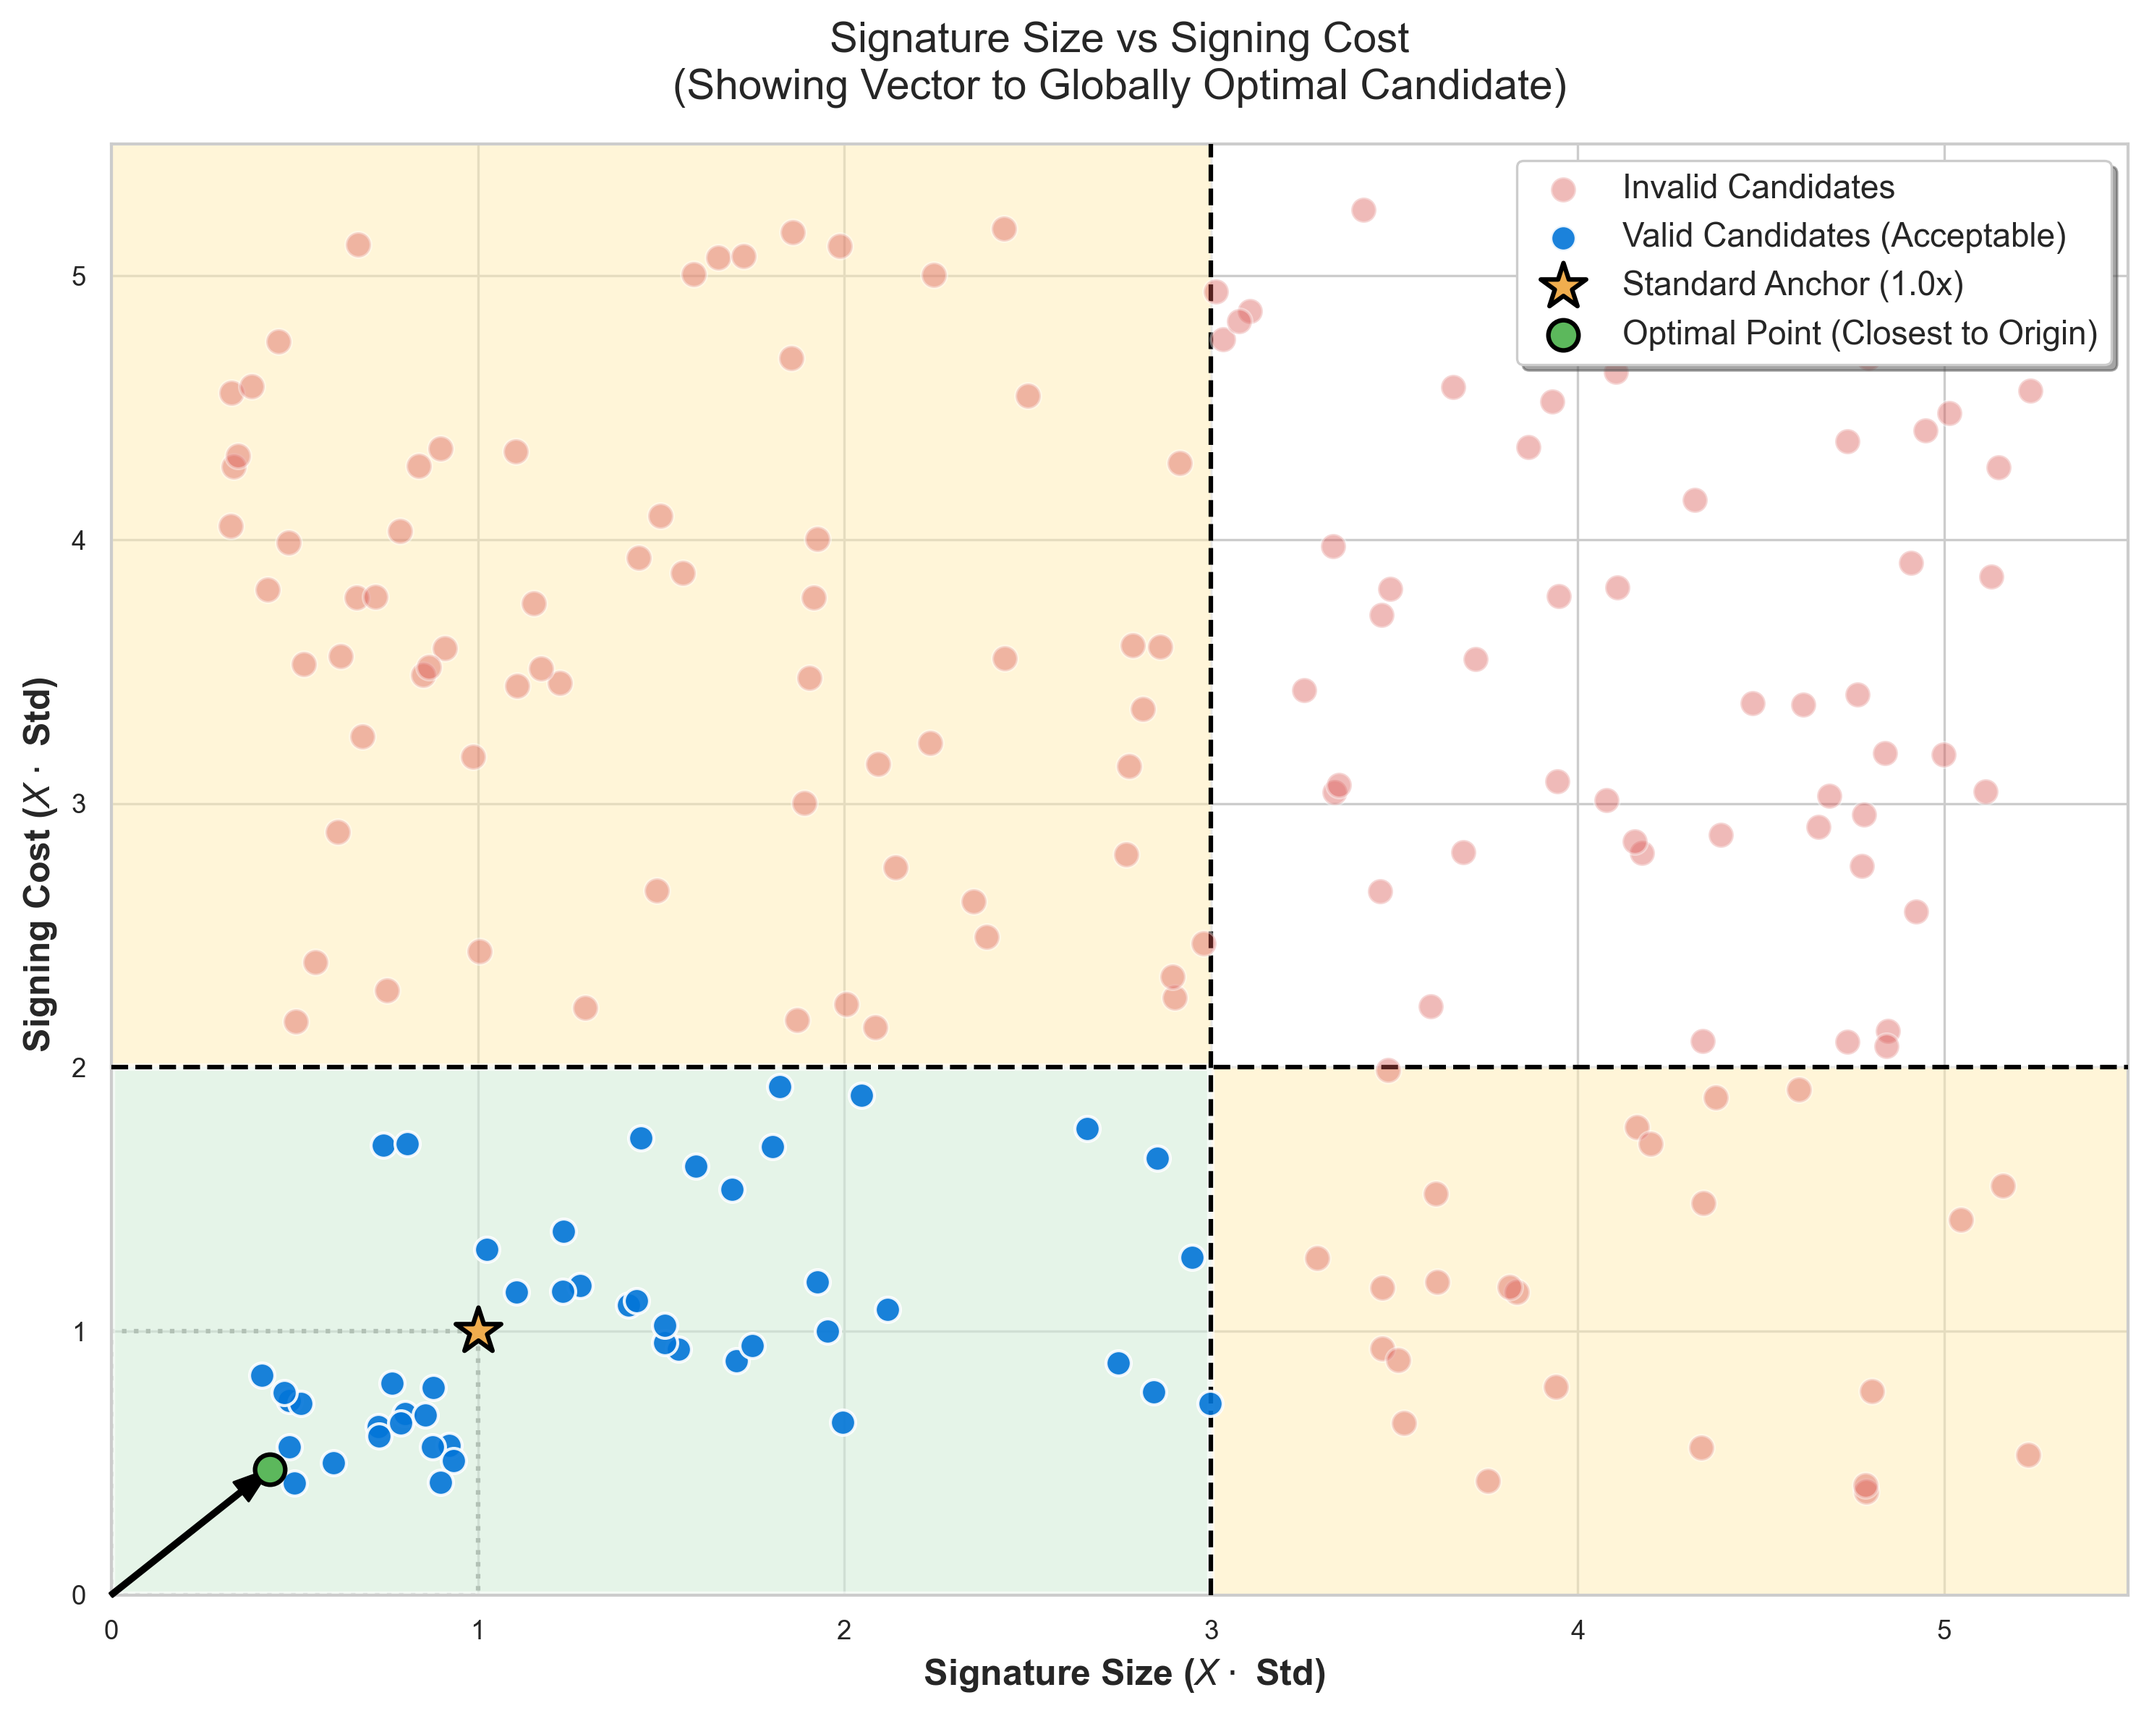
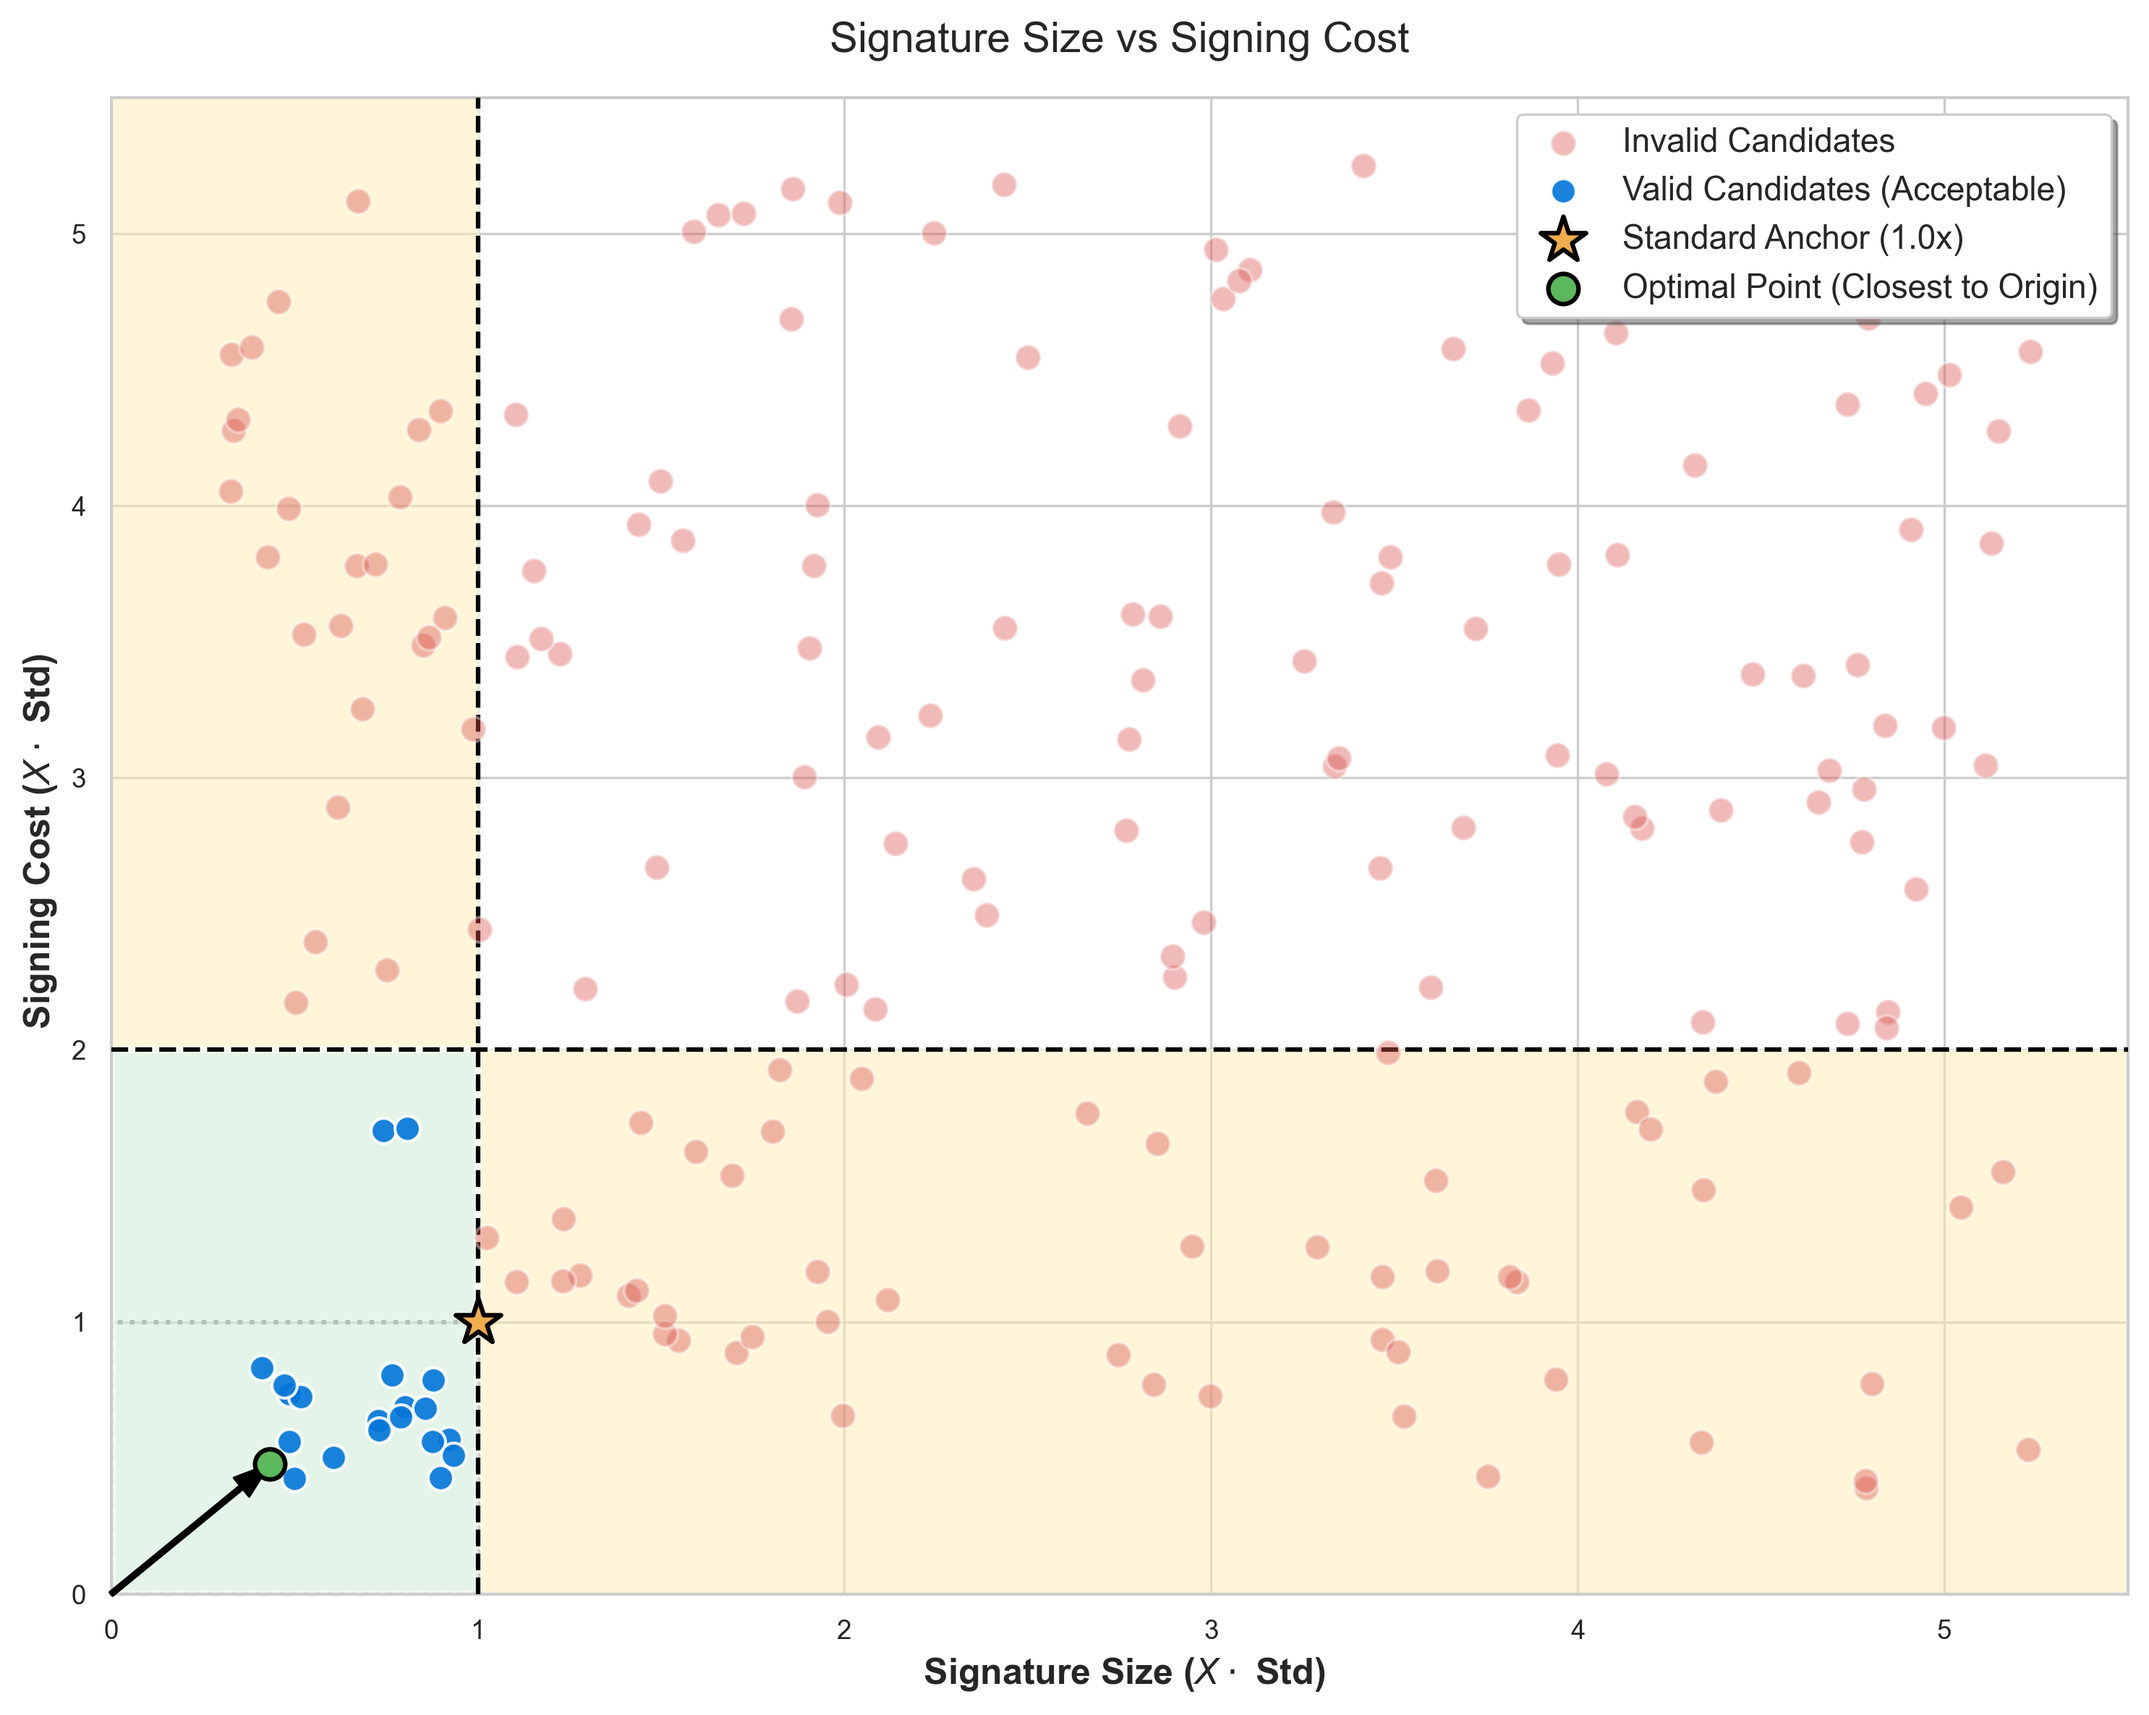
update search methology section

diff --git a/document/content/3-search.tex b/document/content/3-search.tex
@@ -29,9 +29,9 @@ Let's introduce the following filters to defined metrics:
 \begin{itemize}
     \item Bound on signature size (input: \text{max\_size}): $\text{size} \leq \text{max\_size}$;
     \item Bound on key generation cost (input: $X$): $\text{cost}_{\text{kg\_custom}} \leq X \cdot \text{cost}_{\text{kg\_std}}$;
-    \item Bound on signing cost (input: $X$): $\text{cost}_{\text{sig\_custom}} \leq X \cdot \text{cost}_{\text{sig\_std}}$;
-    \item Bound on verification cost (input: $X$): $\text{cost}_{\text{ver\_custom}} \leq X \cdot \text{cost}_{\text{ver\_std}}$;
-    \item Bound on compression per byte (input: $X$): $ \text{cost}_{\text{ver\_custom}}/\text{size} \leq X $
+    \item Bound on signature generation cost (input: $X$): $\text{cost}_{\text{sg\_custom}} \leq X \cdot \text{cost}_{\text{sg\_std}}$;
+    \item Bound on signature verification cost (input: $X$): $\text{cost}_{\text{sv\_custom}} \leq X \cdot \text{cost}_{\text{sv\_std}}$;
+    \item Bound on compression per byte (input: $X$): $ \text{cost}_{\text{cb\_custom}}/\text{size} \leq X $
 \end{itemize}
 
 where $X$ is arbitrary positive real number, and \text{max\_size} is the positive integer value.
@@ -67,7 +67,7 @@ Best Density Ratio (\texorpdfstring{$\rho$}{rho}) & $(50, 2, 23, 15, 16)$ & $784
 From Table~\ref{tab:minimal_metric_each}, we can see that the results for each metric is minimized as possible, 
 but with the cost of other metrics being too big, which makes this parameters impractical to use. Let's consider strategy to find the suitable parameters.
 
-\paragraph{Balanced Metrics} If we ask a question, how the size set of parameters change, if we use common value $X$ across all 4 metrics related to it? 
+\paragraph{Balanced Metrics} If we ask a question, how the size set of parameters change, if we use common value $X$ across all 5 metrics (setting $\text{max\_size} = X \cdot \text{size\_std}$ for $X \leq 1$)? 
 How the number of candidates changes depending on choice of filter input? What is the smallest $X$ that we can set to obtain a few candidates? 
 We apply the result for different values of $X$, and obtain the following results:
 
@@ -80,23 +80,23 @@ We apply the result for different values of $X$, and obtain the following result
 
 The bigger the multiplier, the bigger numer of candidates we get through the search process. 
 And the oppossite is also true, with smaller $X$, the number of candidates becomes smaller. 
-The smallest value of multiplier is $X \approx 0.8299$, and the results presented in the table~\ref{tab:optimal_candidate_metrics}
+The smallest value of multiplier is $X \approx 0.8840$, and the results presented in the Table~\ref{tab:optimal_candidate_metrics}
 
 \begin{table}[htbp]
     \centering
     \small
-    \caption{Performance Comparison between the Standard Baseline and the Balanced Candidate ($X = 0.8299$)}
+    \caption{Performance Comparison between the Standard Baseline and the Balanced Candidate ($X = 0.8840$)}
     \label{tab:optimal_candidate_metrics}
     \begin{tabular}{lrrr}
         \toprule
-        \textbf{Metric} & \textbf{STANDARD Baseline} & \textbf{Optimal Candidate} & \textbf{Relative Multiplier ($X$)} \\
+        \textbf{Metric} & \textbf{Standard Baseline} & \textbf{Optimal Candidate} & \textbf{Relative Multiplier ($X$)} \\
         \midrule
-        Parameters $(h, d, k, a, w)$ & $(63, 7, 14, 12, 16)$ & $(40, 5, 21, 12, 16)$ & -- \\
-        Signature Size (Bytes) & $7,872$ & $7,840$ & $0.9959\times$ \\
-        Key Generation Cost & $292,862.0$ & $146,431.0$ & $0.5000\times$ \\
-        Signing Cost & $2,279,391.0$ & $1,076,100.49$ & $0.4721\times$ \\
-        Verification Cost & $2,387.0$ & $1,973.09$ & $0.8266\times$ \\
-        Hash Density Ratio ($\rho$) & $0.303227$ & $0.251648$ & $0.8299\times$ \\
+        Parameters $(h, d, k, a, w)$ & $(63, 7, 14, 12, 16)$ & $(40, 5, 24, 8, 16)$ & -- \\
+        Signature Size (Bytes) & $7,872$ & $6,928$ & $0.8801\times$ \\
+        Key Generation Cost & $292,862.0$ & $146,430.0$ & $0.5000\times$ \\
+        Signing Cost & $2,279,391.0$ & $756,689.0$ & $0.3320\times$ \\
+        Verification Cost & $2,387.0$ & $1,857.0$ & $0.7780\times$ \\
+        Compression per Byte ($\rho$) & $0.303227$ & $0.268043$ & $0.8840\times$ \\
         \bottomrule
     \end{tabular}
 \end{table}
@@ -120,14 +120,165 @@ Let's see the the visualized example below, where we chose signature size and si
     \label{fig:scatter_plot}
 \end{figure}
 
+While this interpretation of the parameters search fulfills its purpose to demonstrate how actually we find the candidates, this method needs more plots to know the exact values.
+We can do better! 
+
+In the new strategy, we plot unbounded parameters set (with only condition to have 128 bits security) on the plane randomly (the position doesn't matter). 
+After initializing candidates, apply the signature size filter, visualized as color filtering card. Moving further apply all other filter unil the last one.
+The resulting set is the set with appropriate candidates where we can search for the best. 
+
+Let's consider an example, where we set the following coefficients in the filters: 
+$$X_{\text{size}} = 0.85, X_{\text{kg}} = 1.5, X_{\text{sg}} = 2, X_{\text{sv}} = 0.8, X_{\text{cb}} = 1.$$
+
+The result of search for candidates with filtering shown below (see the Figure~\ref{fig:full_filtering_process}):
+
+\begin{figure}[htbp]
+    \centering
+    % Row 1
+    \begin{subfigure}[b]{0.32\textwidth}
+        \centering
+        \includegraphics[width=\textwidth]{content/images/sieve_step1_initial.png}
+        \caption{Initial Pool}
+        \label{fig:sieve_1}
+    \end{subfigure}
+    \hfill
+    \begin{subfigure}[b]{0.32\textwidth}
+        \centering
+        \includegraphics[width=\textwidth]{content/images/sieve_step2_size.png}
+        \caption{SigSize}
+        \label{fig:sieve_2}
+    \end{subfigure}
+    \hfill
+    \begin{subfigure}[b]{0.32\textwidth}
+        \centering
+        \includegraphics[width=\textwidth]{content/images/sieve_step3_keygen.png}
+        \caption{KeyGen}
+        \label{fig:sieve_3}
+    \end{subfigure}
+    
+    \vspace{0.5cm}
+    
+    % Row 2
+    \begin{subfigure}[b]{0.32\textwidth}
+        \centering
+        \includegraphics[width=\textwidth]{content/images/sieve_step4_siggen.png}
+        \caption{SigGen}
+        \label{fig:sieve_4}
+    \end{subfigure}
+    \hfill
+    \begin{subfigure}[b]{0.32\textwidth}
+        \centering
+        \includegraphics[width=\textwidth]{content/images/sieve_step5_verify.png}
+        \caption{SigVerify}
+        \label{fig:sieve_5}
+    \end{subfigure}
+    \hfill
+    \begin{subfigure}[b]{0.32\textwidth}
+        \centering
+        \includegraphics[width=\textwidth]{content/images/sieve_step6_rho.png}
+        \caption{Comp/Byte}
+        \label{fig:sieve_6}
+    \end{subfigure}
+    
+    \caption{Full Parameter Filtering Process}
+    \label{fig:full_filtering_process}
+\end{figure}
+
+Starting with the total number of candidates equal to 19437. After applying signature size filter, succesfully reduce the number of candidates up to 6202.
+In the next step, we reduce the candidates in more than 7 times. 
+Filtering further, we left with smaller and smaller number of suitable candidates, resulting only in final 60 candidates to check further. 
+
+Obtaining the set of final candidates, we are ready to search for the best among them. 
+For this part we use weighted euclidean distance. 
+The reason behind choosing such metric lies in the ability to sign the priority of metrics.
+Let's define the raw weight coefficients as $w_{\text{size}}, w_{\text{kg}}, w_{\text{sg}}, w_{\text{sv}}$, and $w_{\text{cb}}$, representing the relative priority of signature size, key generation, signing, verification, and compression per byte, respectively. All coefficients are real positive numbers ($w \in \mathbb{R}^+$). 
+
+To ensure the calculation remains proportionally consistent regardless of the scale of the chosen weights, we normalize them into coefficients $p_i$ (where $i \in \{\text{size}, \text{kg}, \text{sg}, \text{sv}, \text{cb}\}$) such that their total sum equals $1$:
+\begin{equation}
+    p_i = \frac{w_i}{w_{\text{size}} + w_{\text{kg}} + w_{\text{sg}} + w_{\text{sv}} + w_{\text{cb}}}, \quad \text{ensuring} \quad \sum p_i = 1
+    \label{eq:weight_normalization}
+\end{equation}
+
+Using these normalized coefficients, we calculate the Weighted Euclidean Distance (the $L_2$ norm) from the origin $(0,0,0,0,0)$ to the candidate's point $P$. The distance $d(P)$ is defined as:
+\begin{equation}
+    d(P) = \sqrt{p_{\text{size}} X_{\text{size}}^2 + p_{\text{kg}} X_{\text{kg}}^2 + p_{\text{sg}} X_{\text{sg}}^2 + p_{\text{sv}} X_{\text{sv}}^2 + p_{\text{cb}} X_{\text{cb}}^2}
+    \label{eq:weighted_euclidean_distance}
+\end{equation}
+
+Note that we don't use raw metric values, but instead a ratio of raw metric to the standard. 
+
+To visualize the distances we set the points color takes from a color scale, where lower the distance, the color moves to the blue region.
+If the distance is higher it maps to the red color shade.
+For example, let's consider two cases where the weights are: 
+\begin{itemize}
+    \item Case 1: $w_{\text{size}} = w_{\text{kg}} = w_{\text{sg}} = w_{\text{sv}} = w_{\text{cb}} = 1$;
+    \item Case 2: $w_{\text{size}}=5, w_{\text{kg}}=1, w_{\text{sg}}=1.5, w_{\text{sv}}=2$, and $w_{\text{cb}}=1$.
+\end{itemize}
+
+The result for the first case presented below:
+
+\begin{figure}[htbp]
+    \centering
+    \includegraphics[width=0.7\textwidth]{content/images/sieve_step7_distance_1.png}
+    \caption{Visualization of Searching for the Case 1.}
+    \label{fig:distance_plot_1}
+\end{figure}
+
+The parameters and metrics values of the best candidate presented in the Table~\ref{tab:euclidean_candidate_metrics_case_1}. 
 
 
+\begin{table}[htbp]
+    \centering
+    \small
+    \caption{Performance Comparison between the Standard Baseline and the Best Shortest Distance Candidate}
+    \label{tab:euclidean_candidate_metrics_case_1}
+    \begin{tabular}{lrrr}
+        \toprule
+        \textbf{Metric} & \textbf{Standard Baseline} & \textbf{Best Candidate} & \textbf{Relative Multiplier ($X$)} \\
+        \midrule
+        Parameters $(h, d, k, a, w)$ & $(63, 7, 14, 12, 16)$ & $(40, 5, 19, 9, 16)$ & -- \\
+        Signature Size (Bytes) & $7,872$ & $6,512$ & $0.8272\times$ \\
+        Key Generation Cost & $292,862.0$ & $146,430.0$ & $0.5000\times$ \\
+        Signing Cost & $2,279,391.0$ & $771,034.0$ & $0.3383\times$ \\
+        Verification Cost & $2,387.0$ & $1,809.0$ & $0.7579\times$ \\
+        Compression per Byte ($\rho$) & $0.303227$ & $0.277795$ & $0.9161\times$ \\
+        \bottomrule
+    \end{tabular}
+\end{table}
 
+\newpage
 
+For the second case, we have the following picture:
 
+\begin{figure}[htbp]
+    \centering
+    \includegraphics[width=0.75\textwidth]{content/images/sieve_step7_distance_2.png}
+    \caption{Visualization of Searching for the Case 2.}
+    \label{fig:distance_plot_1}
+\end{figure}
 
+And the resulting values obtained (see Table~\ref{tab:euclidean_candidate_metrics_case_2}).
 
+\begin{table}[htbp]
+    \centering
+    \small
+    \caption{Performance Comparison between the Standard Baseline and the Best Shortest Distance Candidate}
+    \label{tab:euclidean_candidate_metrics_case_2}
+    \begin{tabular}{lrrr}
+        \toprule
+        \textbf{Metric} & \textbf{Standard Baseline} & \textbf{Best Candidate} & \textbf{Relative Multiplier ($X$)} \\
+        \midrule
+        Parameters $(h, d, k, a, w)$ & $(63, 7, 14, 12, 16)$ & $(40, 5, 13, 12, 16)$ & -- \\
+        Signature Size (Bytes) & $7,872$ & $6,176$ & $0.7846\times$ \\
+        Key Generation Cost & $292,862.0$ & $146,430.0$ & $0.5000\times$ \\
+        Signing Cost & $2,279,391.0$ & $945,124.0$ & $0.4146\times$ \\
+        Verification Cost & $2,387.0$ & $1,771.0$ & $0.7419\times$ \\
+        Compression per Byte ($\rho$) & $0.303227$ & $0.286755$ & $0.9457\times$ \\
+        \bottomrule
+    \end{tabular}
+\end{table}
 
+Comparing two cases, there is difference in the resulting metrics. While in the first case we have more balanced costs, the second case results show the prioritization for size, signing and verification. 
 
 
 

diff --git a/document/main.tex b/document/main.tex
@@ -6,6 +6,7 @@
 \usepackage{amssymb}
 
 \usepackage{graphicx}
+\usepackage{subcaption}
 \usepackage{booktabs}
 \usepackage{array}
 
